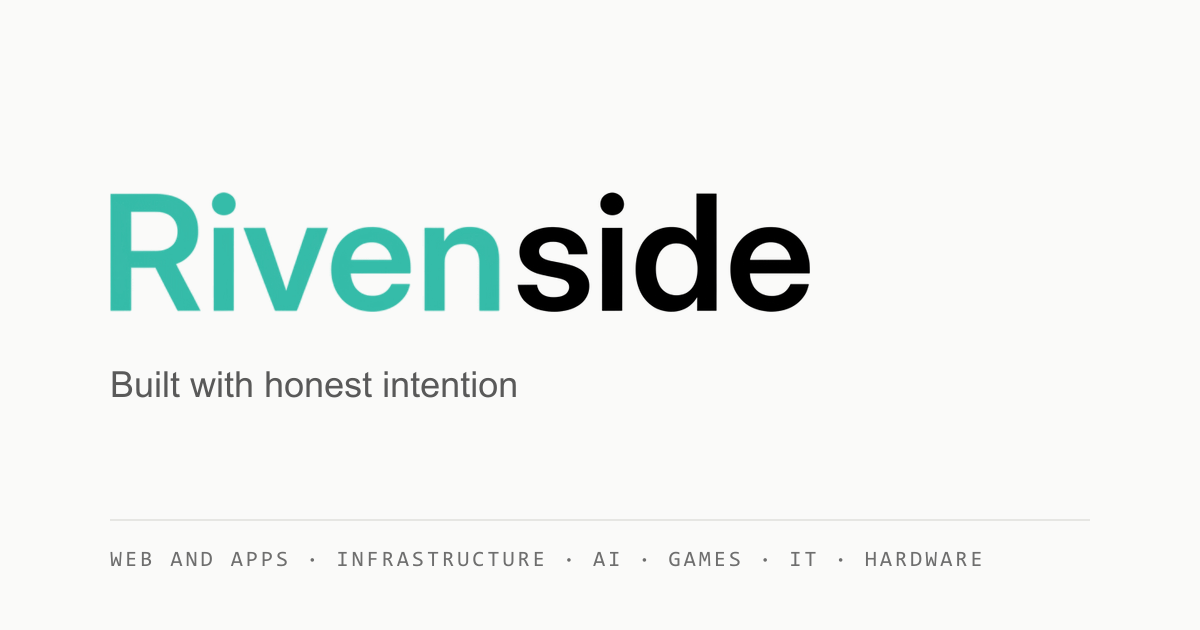
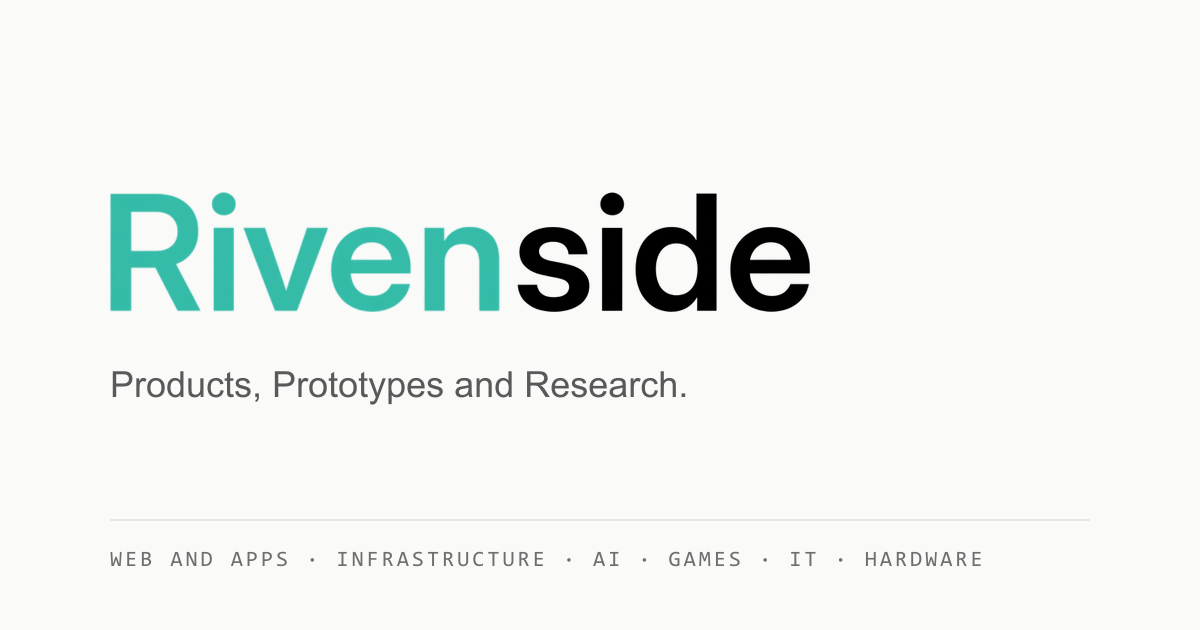
Deploy b7a5430

Changed region(s): [[0.0925, 0.573, 0.5858, 0.6333]]

diff --git a/work/index.html b/work/index.html
@@ -1,5 +1,4 @@
-<!DOCTYPE html><html lang="en"> <head><meta charset="utf-8"><meta name="viewport" content="width=device-width, initial-scale=1"><meta http-equiv="Content-Security-Policy" content="default-src 'self'; script-src 'self'; style-src 'self' 'unsafe-inline'; img-src 'self' data:; media-src 'self'; font-src 'self'; connect-src 'self'; object-src 'none'; base-uri 'self'; form-action 'none'; upgrade-insecure-requests"><meta name="referrer" content="strict-origin-when-cross-origin"><style>@font-face{font-family:"Instrument Sans-ffcd231cb79fdf50";src:url("/_astro/fonts/35557a33a889e42d.woff2") format("woff2");font-display:swap;unicode-range:U+0000-00FF,U+0131,U+0152-0153,U+02BB-02BC,U+02C6,U+02DA,U+02DC,U+0304,U+0308,U+0329,U+2000-206F,U+20AC,U+2122,U+2191,U+2193,U+2212,U+2215,U+FEFF,U+FFFD;font-weight:400 700;font-style:normal;}@font-face{font-family:"Instrument Sans-ffcd231cb79fdf50 fallback: Arial";src:local("Arial");font-display:swap;font-weight:400 700;font-style:normal;size-adjust:102.7365%;ascent-override:94.4163%;descent-override:24.3341%;line-gap-override:0%;}:root{--font-sans:"Instrument Sans-ffcd231cb79fdf50","Instrument Sans-ffcd231cb79fdf50 fallback: Arial",sans-serif;}</style> <link rel="preload" href="/_astro/fonts/35557a33a889e42d.woff2" as="font" type="font/woff2" crossorigin><style>@font-face{font-family:"IBM Plex Mono-43d4c70db41e0af4";src:url("/_astro/fonts/a3a0a8110b9e369d.woff2") format("woff2");font-display:swap;unicode-range:U+0000-00FF,U+0131,U+0152-0153,U+02BB-02BC,U+02C6,U+02DA,U+02DC,U+0304,U+0308,U+0329,U+2000-206F,U+20AC,U+2122,U+2191,U+2193,U+2212,U+2215,U+FEFF,U+FFFD;font-weight:400;font-style:normal;}@font-face{font-family:"IBM Plex Mono-43d4c70db41e0af4 fallback: Courier New";src:local("Courier New");font-display:swap;font-weight:400;font-style:normal;size-adjust:99.9837%;ascent-override:102.5167%;descent-override:27.5045%;}:root{--font-mono:"IBM Plex Mono-43d4c70db41e0af4","IBM Plex Mono-43d4c70db41e0af4 fallback: Courier New",monospace;}</style> <title>Work · Rivenside</title> <meta name="description" content="Pixel Game Lab: an AI system that builds complete 2D RPGs from a single sentence prompt, with Sunrune, its early demo, to play.">  <link rel="canonical" href="https://mohsinkhan111.github.io/work/"> <meta name="color-scheme" content="light">  <meta name="theme-color" content="#FAFAF9"> <link rel="icon" href="/favicon.ico" sizes="16x16 32x32 48x48"> <link rel="icon" href="/favicon-32.png" type="image/png"> <link rel="apple-touch-icon" href="/apple-touch-icon.png"> <link rel="manifest" href="/site.webmanifest"> <link rel="sitemap" href="/sitemap-index.xml"> <meta property="og:type" content="website"> <meta property="og:site_name" content="Rivenside"> <meta property="og:title" content="Work · Rivenside"> <meta property="og:description" content="Pixel Game Lab: an AI system that builds complete 2D RPGs from a single sentence prompt, with Sunrune, its early demo, to play."> <meta property="og:url" content="https://mohsinkhan111.github.io/work/"> <meta property="og:image" content="https://mohsinkhan111.github.io/og.png"> <meta property="og:image:width" content="1200"> <meta property="og:image:height" content="630"> <meta property="og:image:alt" content="The Rivenside wordmark"> <meta name="twitter:card" content="summary_large_image">  <link rel="stylesheet" href="/_astro/Base.BYJ0rVuq.css"><link rel="stylesheet" href="/_astro/work.kNGbp6Mt.css"><link rel="stylesheet" href="/_astro/work._JdoqMUy.css"></head> <body> <a class="skip-link" href="#main">Skip to content</a> <header class="site-header" data-astro-cid-nen7h5rs> <div class="frame bar" data-astro-cid-nen7h5rs> <a class="wordmark" href="/" data-astro-cid-nen7h5rs><img src="/images/wordmark.png" alt="Rivenside" width="374" height="64" data-astro-cid-nen7h5rs></a> <nav aria-label="Main" data-astro-cid-nen7h5rs> <a href="/work/" aria-current="page" data-astro-cid-nen7h5rs> Work </a><a href="/research/" data-astro-cid-nen7h5rs> Research </a><a href="/about/" data-astro-cid-nen7h5rs> About </a><a href="/contact/" data-astro-cid-nen7h5rs> Contact </a> </nav> </div> </header> <main id="main" tabindex="-1">  <div class="frame page" data-astro-cid-r3bc3sjw> <header class="head" data-astro-cid-r3bc3sjw> <h1 data-astro-cid-r3bc3sjw>Work</h1> <p data-astro-cid-r3bc3sjw>
-Rivenside doesn’t list live products or client work; this site showcases
+<!DOCTYPE html><html lang="en"> <head><meta charset="utf-8"><meta name="viewport" content="width=device-width, initial-scale=1"><meta http-equiv="Content-Security-Policy" content="default-src 'self'; script-src 'self'; style-src 'self' 'unsafe-inline'; img-src 'self' data:; media-src 'self'; font-src 'self'; connect-src 'self'; object-src 'none'; base-uri 'self'; form-action 'none'; upgrade-insecure-requests"><meta name="referrer" content="strict-origin-when-cross-origin"><style>@font-face{font-family:"Instrument Sans-ffcd231cb79fdf50";src:url("/_astro/fonts/35557a33a889e42d.woff2") format("woff2");font-display:swap;unicode-range:U+0000-00FF,U+0131,U+0152-0153,U+02BB-02BC,U+02C6,U+02DA,U+02DC,U+0304,U+0308,U+0329,U+2000-206F,U+20AC,U+2122,U+2191,U+2193,U+2212,U+2215,U+FEFF,U+FFFD;font-weight:400 700;font-style:normal;}@font-face{font-family:"Instrument Sans-ffcd231cb79fdf50 fallback: Arial";src:local("Arial");font-display:swap;font-weight:400 700;font-style:normal;size-adjust:102.7365%;ascent-override:94.4163%;descent-override:24.3341%;line-gap-override:0%;}:root{--font-sans:"Instrument Sans-ffcd231cb79fdf50","Instrument Sans-ffcd231cb79fdf50 fallback: Arial",sans-serif;}</style> <link rel="preload" href="/_astro/fonts/35557a33a889e42d.woff2" as="font" type="font/woff2" crossorigin><style>@font-face{font-family:"IBM Plex Mono-43d4c70db41e0af4";src:url("/_astro/fonts/a3a0a8110b9e369d.woff2") format("woff2");font-display:swap;unicode-range:U+0000-00FF,U+0131,U+0152-0153,U+02BB-02BC,U+02C6,U+02DA,U+02DC,U+0304,U+0308,U+0329,U+2000-206F,U+20AC,U+2122,U+2191,U+2193,U+2212,U+2215,U+FEFF,U+FFFD;font-weight:400;font-style:normal;}@font-face{font-family:"IBM Plex Mono-43d4c70db41e0af4 fallback: Courier New";src:local("Courier New");font-display:swap;font-weight:400;font-style:normal;size-adjust:99.9837%;ascent-override:102.5167%;descent-override:27.5045%;}:root{--font-mono:"IBM Plex Mono-43d4c70db41e0af4","IBM Plex Mono-43d4c70db41e0af4 fallback: Courier New",monospace;}</style> <title>Work · Rivenside</title> <meta name="description" content="Pixel Game Lab: an AI system that builds complete 2D RPGs from a single sentence prompt, with Sunrune, its early demo, to play.">  <link rel="canonical" href="https://mohsinkhan111.github.io/work/"> <meta name="color-scheme" content="light">  <meta name="theme-color" content="#FAFAF9"> <link rel="icon" href="/favicon.ico" sizes="16x16 32x32 48x48"> <link rel="icon" href="/favicon-32.png" type="image/png"> <link rel="apple-touch-icon" href="/apple-touch-icon.png"> <link rel="manifest" href="/site.webmanifest"> <link rel="sitemap" href="/sitemap-index.xml"> <meta property="og:type" content="website"> <meta property="og:site_name" content="Rivenside"> <meta property="og:title" content="Work · Rivenside"> <meta property="og:description" content="Pixel Game Lab: an AI system that builds complete 2D RPGs from a single sentence prompt, with Sunrune, its early demo, to play."> <meta property="og:url" content="https://mohsinkhan111.github.io/work/"> <meta property="og:image" content="https://mohsinkhan111.github.io/og.png"> <meta property="og:image:width" content="1200"> <meta property="og:image:height" content="630"> <meta property="og:image:alt" content="The Rivenside wordmark"> <meta name="twitter:card" content="summary_large_image">  <link rel="stylesheet" href="/_astro/Base.BYJ0rVuq.css"><link rel="stylesheet" href="/_astro/work.kNGbp6Mt.css"><link rel="stylesheet" href="/_astro/work.-6vF9jtw.css"></head> <body> <a class="skip-link" href="#main">Skip to content</a> <header class="site-header" data-astro-cid-nen7h5rs> <div class="frame bar" data-astro-cid-nen7h5rs> <a class="wordmark" href="/" data-astro-cid-nen7h5rs><img src="/images/wordmark.png" alt="Rivenside" width="374" height="64" data-astro-cid-nen7h5rs></a> <nav aria-label="Main" data-astro-cid-nen7h5rs> <a href="/work/" aria-current="page" data-astro-cid-nen7h5rs> Work </a><a href="/research/" data-astro-cid-nen7h5rs> Research </a><a href="/about/" data-astro-cid-nen7h5rs> About </a><a href="/contact/" data-astro-cid-nen7h5rs> Contact </a> </nav> </div> </header> <main id="main" tabindex="-1">  <div class="frame page" data-astro-cid-r3bc3sjw> <header class="head" data-astro-cid-r3bc3sjw> <h1 data-astro-cid-r3bc3sjw>Work</h1> <p data-astro-cid-r3bc3sjw> <strong class="statement" data-astro-cid-r3bc3sjw>Rivenside doesn’t list live products or client work;</strong> this site showcases
 <strong data-astro-cid-r3bc3sjw>publicly shareable work</strong>, including <strong data-astro-cid-r3bc3sjw>demos</strong>,
 <strong data-astro-cid-r3bc3sjw>experiments</strong>, and <strong data-astro-cid-r3bc3sjw>samples</strong>.
 </p> </header> <ol class="list" data-astro-cid-7b6nnxox> <li data-astro-cid-7b6nnxox> <p class="meta mono" data-astro-cid-7b6nnxox> Ongoing <span data-astro-cid-7b6nnxox>2026</span> </p> <div class="item" data-astro-cid-7b6nnxox> <h2 data-astro-cid-7b6nnxox>Pixel Game Lab</h2> <p class="line" data-astro-cid-7b6nnxox>A specialised AI system for generating complete 2D pixel art RPGs from a single sentence prompt, including the world, characters, story, mechanics and game flow.</p> <p class="para" data-astro-cid-7b6nnxox>I’m building it around the idea that AI can create detailed, atmospheric game worlds and stories when given the right assets and a system designed specifically for game development.</p><p class="para" data-astro-cid-7b6nnxox><a href="https://mohsinkhan111.github.io/sunrune/" target="_blank" rel="noopener">Sunrune</a> was an early experiment using the current system I built, applied with Claude Opus 5. I gave it a single sentence prompt and a set of <a href="https://kenney.nl/" target="_blank" rel="noopener">Kenney</a> assets, and it produced the game. The demo was built in about eight hours and cost roughly $5 in tokens.</p><p class="para" data-astro-cid-7b6nnxox>The experiment worked, so I’m now making the system more specialised and detailed, with the goal of generating complete games from start to finish. I’m also working toward running it locally, so I can create games without paying for online AI services each time and make games that fit the stories, worlds and characters I want to play.</p><p class="para" data-astro-cid-7b6nnxox>Future versions will also give certain characters their own AI brains, allowing them to make decisions and react to the world independently.</p> <img src="/images/games/sunrune.webp" alt="Sunrune title screen: pixel art hills under a blue sky, with Pip the cat standing beneath the title." width="1280" height="720" loading="lazy" decoding="async" data-astro-cid-7b6nnxox> <p class="links" data-astro-cid-7b6nnxox> <a href="https://mohsinkhan111.github.io/sunrune/" target="_blank" rel="noopener" data-astro-cid-7b6nnxox>

diff --git a/index.html b/index.html
@@ -1,4 +1,4 @@
-<!DOCTYPE html><html lang="en"> <head><meta charset="utf-8"><meta name="viewport" content="width=device-width, initial-scale=1"><meta http-equiv="Content-Security-Policy" content="default-src 'self'; script-src 'self'; style-src 'self' 'unsafe-inline'; img-src 'self' data:; media-src 'self'; font-src 'self'; connect-src 'self'; object-src 'none'; base-uri 'self'; form-action 'none'; upgrade-insecure-requests"><meta name="referrer" content="strict-origin-when-cross-origin"><style>@font-face{font-family:"Instrument Sans-ffcd231cb79fdf50";src:url("/_astro/fonts/35557a33a889e42d.woff2") format("woff2");font-display:swap;unicode-range:U+0000-00FF,U+0131,U+0152-0153,U+02BB-02BC,U+02C6,U+02DA,U+02DC,U+0304,U+0308,U+0329,U+2000-206F,U+20AC,U+2122,U+2191,U+2193,U+2212,U+2215,U+FEFF,U+FFFD;font-weight:400 700;font-style:normal;}@font-face{font-family:"Instrument Sans-ffcd231cb79fdf50 fallback: Arial";src:local("Arial");font-display:swap;font-weight:400 700;font-style:normal;size-adjust:102.7365%;ascent-override:94.4163%;descent-override:24.3341%;line-gap-override:0%;}:root{--font-sans:"Instrument Sans-ffcd231cb79fdf50","Instrument Sans-ffcd231cb79fdf50 fallback: Arial",sans-serif;}</style> <link rel="preload" href="/_astro/fonts/35557a33a889e42d.woff2" as="font" type="font/woff2" crossorigin><style>@font-face{font-family:"IBM Plex Mono-43d4c70db41e0af4";src:url("/_astro/fonts/a3a0a8110b9e369d.woff2") format("woff2");font-display:swap;unicode-range:U+0000-00FF,U+0131,U+0152-0153,U+02BB-02BC,U+02C6,U+02DA,U+02DC,U+0304,U+0308,U+0329,U+2000-206F,U+20AC,U+2122,U+2191,U+2193,U+2212,U+2215,U+FEFF,U+FFFD;font-weight:400;font-style:normal;}@font-face{font-family:"IBM Plex Mono-43d4c70db41e0af4 fallback: Courier New";src:local("Courier New");font-display:swap;font-weight:400;font-style:normal;size-adjust:99.9837%;ascent-override:102.5167%;descent-override:27.5045%;}:root{--font-mono:"IBM Plex Mono-43d4c70db41e0af4","IBM Plex Mono-43d4c70db41e0af4 fallback: Courier New",monospace;}</style> <title>Rivenside</title> <meta name="description" content="Rivenside builds and manages technology for its own products and the people and businesses we work with.">  <link rel="canonical" href="https://mohsinkhan111.github.io/"> <meta name="color-scheme" content="light">  <meta name="theme-color" content="#FAFAF9"> <link rel="icon" href="/favicon.ico" sizes="16x16 32x32 48x48"> <link rel="icon" href="/favicon-32.png" type="image/png"> <link rel="apple-touch-icon" href="/apple-touch-icon.png"> <link rel="manifest" href="/site.webmanifest"> <link rel="sitemap" href="/sitemap-index.xml"> <meta property="og:type" content="website"> <meta property="og:site_name" content="Rivenside"> <meta property="og:title" content="Rivenside"> <meta property="og:description" content="Rivenside builds and manages technology for its own products and the people and businesses we work with."> <meta property="og:url" content="https://mohsinkhan111.github.io/"> <meta property="og:image" content="https://mohsinkhan111.github.io/og.png"> <meta property="og:image:width" content="1200"> <meta property="og:image:height" content="630"> <meta property="og:image:alt" content="The Rivenside wordmark"> <meta name="twitter:card" content="summary_large_image">  <script type="application/ld+json">{"@context":"https://schema.org","@type":"Organization","name":"Rivenside","url":"https://mohsinkhan111.github.io/","foundingDate":"2023","description":"Rivenside builds and manages technology for its own products and the people and businesses we work with.","email":"mohsinmkhan676@gmail.com","founder":{"@type":"Person","name":"Mohsin Khan","sameAs":["https://www.linkedin.com/in/mohsin-khan-2895b6376","https://github.com/MohsinKhan111"]},"sameAs":["https://github.com/MohsinKhan111","https://www.linkedin.com/in/mohsin-khan-2895b6376"]}</script><link rel="stylesheet" href="/_astro/Base.BYJ0rVuq.css"><link rel="stylesheet" href="/_astro/index.RcEsYO7i.css"></head> <body> <a class="skip-link" href="#main">Skip to content</a> <header class="site-header" data-astro-cid-nen7h5rs> <div class="frame bar" data-astro-cid-nen7h5rs> <a class="wordmark" href="/" data-astro-cid-nen7h5rs><img src="/images/wordmark.png" alt="Rivenside" width="374" height="64" data-astro-cid-nen7h5rs></a> <nav aria-label="Main" data-astro-cid-nen7h5rs> <a href="/work/" data-astro-cid-nen7h5rs> Work </a><a href="/research/" data-astro-cid-nen7h5rs> Research </a><a href="/about/" data-astro-cid-nen7h5rs> About </a><a href="/contact/" data-astro-cid-nen7h5rs> Contact </a> </nav> </div> </header> <main id="main" tabindex="-1">  <section class="home frame" data-astro-cid-lcdefpme> <h1 data-astro-cid-lcdefpme>Built with honest intention</h1> <p class="lead" data-astro-cid-lcdefpme>
+<!DOCTYPE html><html lang="en"> <head><meta charset="utf-8"><meta name="viewport" content="width=device-width, initial-scale=1"><meta http-equiv="Content-Security-Policy" content="default-src 'self'; script-src 'self'; style-src 'self' 'unsafe-inline'; img-src 'self' data:; media-src 'self'; font-src 'self'; connect-src 'self'; object-src 'none'; base-uri 'self'; form-action 'none'; upgrade-insecure-requests"><meta name="referrer" content="strict-origin-when-cross-origin"><style>@font-face{font-family:"Instrument Sans-ffcd231cb79fdf50";src:url("/_astro/fonts/35557a33a889e42d.woff2") format("woff2");font-display:swap;unicode-range:U+0000-00FF,U+0131,U+0152-0153,U+02BB-02BC,U+02C6,U+02DA,U+02DC,U+0304,U+0308,U+0329,U+2000-206F,U+20AC,U+2122,U+2191,U+2193,U+2212,U+2215,U+FEFF,U+FFFD;font-weight:400 700;font-style:normal;}@font-face{font-family:"Instrument Sans-ffcd231cb79fdf50 fallback: Arial";src:local("Arial");font-display:swap;font-weight:400 700;font-style:normal;size-adjust:102.7365%;ascent-override:94.4163%;descent-override:24.3341%;line-gap-override:0%;}:root{--font-sans:"Instrument Sans-ffcd231cb79fdf50","Instrument Sans-ffcd231cb79fdf50 fallback: Arial",sans-serif;}</style> <link rel="preload" href="/_astro/fonts/35557a33a889e42d.woff2" as="font" type="font/woff2" crossorigin><style>@font-face{font-family:"IBM Plex Mono-43d4c70db41e0af4";src:url("/_astro/fonts/a3a0a8110b9e369d.woff2") format("woff2");font-display:swap;unicode-range:U+0000-00FF,U+0131,U+0152-0153,U+02BB-02BC,U+02C6,U+02DA,U+02DC,U+0304,U+0308,U+0329,U+2000-206F,U+20AC,U+2122,U+2191,U+2193,U+2212,U+2215,U+FEFF,U+FFFD;font-weight:400;font-style:normal;}@font-face{font-family:"IBM Plex Mono-43d4c70db41e0af4 fallback: Courier New";src:local("Courier New");font-display:swap;font-weight:400;font-style:normal;size-adjust:99.9837%;ascent-override:102.5167%;descent-override:27.5045%;}:root{--font-mono:"IBM Plex Mono-43d4c70db41e0af4","IBM Plex Mono-43d4c70db41e0af4 fallback: Courier New",monospace;}</style> <title>Rivenside</title> <meta name="description" content="Rivenside builds and manages technology for its own products and the people and businesses we work with.">  <link rel="canonical" href="https://mohsinkhan111.github.io/"> <meta name="color-scheme" content="light">  <meta name="theme-color" content="#FAFAF9"> <link rel="icon" href="/favicon.ico" sizes="16x16 32x32 48x48"> <link rel="icon" href="/favicon-32.png" type="image/png"> <link rel="apple-touch-icon" href="/apple-touch-icon.png"> <link rel="manifest" href="/site.webmanifest"> <link rel="sitemap" href="/sitemap-index.xml"> <meta property="og:type" content="website"> <meta property="og:site_name" content="Rivenside"> <meta property="og:title" content="Rivenside"> <meta property="og:description" content="Rivenside builds and manages technology for its own products and the people and businesses we work with."> <meta property="og:url" content="https://mohsinkhan111.github.io/"> <meta property="og:image" content="https://mohsinkhan111.github.io/og.png"> <meta property="og:image:width" content="1200"> <meta property="og:image:height" content="630"> <meta property="og:image:alt" content="The Rivenside wordmark"> <meta name="twitter:card" content="summary_large_image">  <script type="application/ld+json">{"@context":"https://schema.org","@type":"Organization","name":"Rivenside","url":"https://mohsinkhan111.github.io/","foundingDate":"2023","description":"Rivenside builds and manages technology for its own products and the people and businesses we work with.","email":"mohsinmkhan676@gmail.com","founder":{"@type":"Person","name":"Mohsin Khan","sameAs":["https://www.linkedin.com/in/mohsin-khan-2895b6376","https://github.com/MohsinKhan111"]},"sameAs":["https://github.com/MohsinKhan111","https://www.linkedin.com/in/mohsin-khan-2895b6376"]}</script><link rel="stylesheet" href="/_astro/Base.BYJ0rVuq.css"><link rel="stylesheet" href="/_astro/index.RcEsYO7i.css"></head> <body> <a class="skip-link" href="#main">Skip to content</a> <header class="site-header" data-astro-cid-nen7h5rs> <div class="frame bar" data-astro-cid-nen7h5rs> <a class="wordmark" href="/" data-astro-cid-nen7h5rs><img src="/images/wordmark.png" alt="Rivenside" width="374" height="64" data-astro-cid-nen7h5rs></a> <nav aria-label="Main" data-astro-cid-nen7h5rs> <a href="/work/" data-astro-cid-nen7h5rs> Work </a><a href="/research/" data-astro-cid-nen7h5rs> Research </a><a href="/about/" data-astro-cid-nen7h5rs> About </a><a href="/contact/" data-astro-cid-nen7h5rs> Contact </a> </nav> </div> </header> <main id="main" tabindex="-1">  <section class="home frame" data-astro-cid-lcdefpme> <h1 data-astro-cid-lcdefpme>Products, Prototypes and Research.</h1> <p class="lead" data-astro-cid-lcdefpme>
 Rivenside builds and manages technology for its own products and the people and businesses
       we work with. Our work spans software, systems, infrastructure, hardware prototypes,
       specialised technology, and research into areas such as AI and local LLMs.

diff --git a/_astro/work.-6vF9jtw.css b/_astro/work.-6vF9jtw.css
@@ -1,0 +1,1 @@
+.page[data-astro-cid-r3bc3sjw]{padding-block:clamp(2.5rem,8vh,5rem) 0}.head[data-astro-cid-r3bc3sjw]{text-align:center;margin-bottom:clamp(2.5rem,7vh,4rem)}.head[data-astro-cid-r3bc3sjw] p[data-astro-cid-r3bc3sjw]{margin:var(--space-5) auto 0;max-width:58ch;color:var(--muted)}.head[data-astro-cid-r3bc3sjw] strong[data-astro-cid-r3bc3sjw]{color:var(--text);font-weight:400}.head[data-astro-cid-r3bc3sjw] strong[data-astro-cid-r3bc3sjw].statement{font-weight:600}
